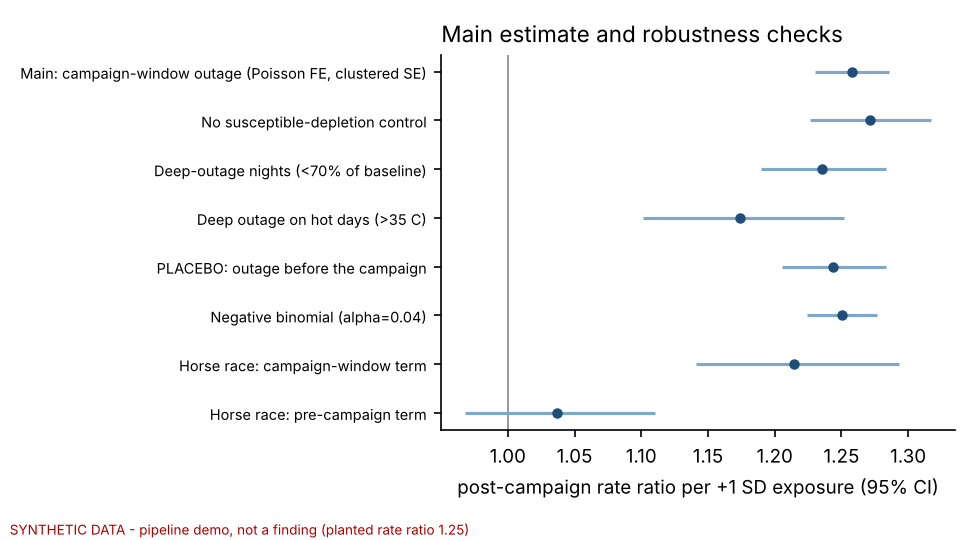
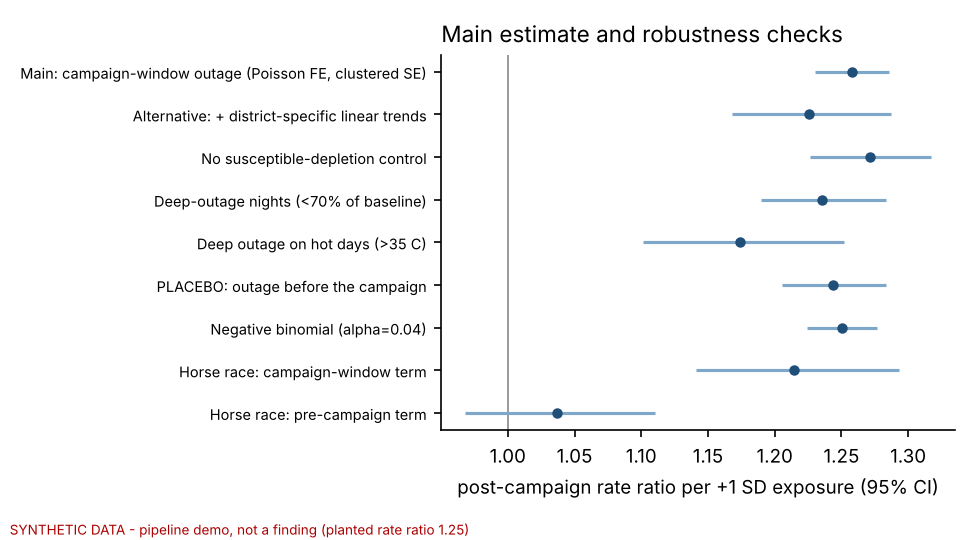
Add district-specific trends estimate and one-command runner
Alternative DiD estimate with a linear trend per district, as suggested
by Prof. Enrico Rettore, reported next to the conservative main estimate.
scripts/run_all.py runs every step and prints the numbers to report.

diff --git a/scripts/run_all.py b/scripts/run_all.py
@@ -1,0 +1,58 @@
+"""Run the whole study with one command.
+
+    python scripts/run_all.py
+
+Order:
+  1. DGHS district measles data           (download, ~30-60 min the first time)
+  2. BPDB zone load shedding              (download; skipped if the site fails)
+  3. Earth Engine night-light exports      (needs the CSVs in data/raw/gee/;
+                                           see docs/SETUP_bn.md, step 4)
+  4. Main analysis incl. district trends  (results/main/)
+  5. Zone inequality                      (results/zone_inequality/)
+  6. Historical parallel trends           (results/historical_pretrends/)
+
+Downloads already on disk are skipped, so it is safe to run again.
+At the end it prints the numbers to report.
+"""
+
+import subprocess
+import sys
+from pathlib import Path
+
+ROOT = Path(__file__).resolve().parents[1]
+PY = sys.executable
+
+
+def run(step: str, args: list[str], required: bool = True) -> bool:
+    print(f"\n=== {step} ===", flush=True)
+    code = subprocess.call([PY, *args], cwd=ROOT)
+    if code != 0:
+        msg = f"step failed: {step}"
+        if required:
+            sys.exit(msg + " - fix this before continuing (see docs/SETUP_bn.md)")
+        print(msg + " - continuing without it")
+        return False
+    return True
+
+
+run("1. DGHS district measles data", ["scripts/01_fetch_dghs.py"])
+run("2. BPDB zone load shedding", ["scripts/02_fetch_bpdb.py"], required=False)
+
+gee = sorted((ROOT / "data" / "raw" / "gee").glob("ntl_tmax_district_*.csv"))
+if not gee:
+    sys.exit("\nStep 3 is missing: no Earth Engine exports in data/raw/gee/.\n"
+             "Run gee/export_district_ntl_temperature.js in code.earthengine.google.com,\n"
+             "download the CSVs from Google Drive into data/raw/gee/, then run this again.")
+run("3. Night-light outage index", ["scripts/03_prepare_ntl.py"])
+run("4. Main analysis", ["scripts/04_run_analysis.py"])
+zp = ROOT / "data" / "processed" / "bpdb_zone_daily.csv"
+run("5. Zone inequality", ["scripts/05_zone_inequality.py"] + (["--input", str(zp)] if zp.exists() else []),
+    required=False)
+run("6. Historical parallel trends", ["scripts/06_historical_pretrends.py"], required=False)
+
+print("\n" + "=" * 70)
+for f in ["results/main/SUMMARY.md", "results/historical_pretrends/SUMMARY.md"]:
+    p = ROOT / f
+    if p.exists():
+        print(p.read_text(encoding="utf-8"))
+print("Figures: results/main/figures/ and results/historical_pretrends/")

diff --git a/scripts/04_run_analysis.py b/scripts/04_run_analysis.py
@@ -52,6 +52,7 @@ P.to_csv(out / "panel.csv", index=False)
 # ------------------------------------------------------------------ models
 rows = [
     models.did(P, label="Main: campaign-window outage (Poisson FE, clustered SE)"),
+    models.did(P, district_trends=True, label="Alternative: + district-specific linear trends"),
     models.did(P, controls=False, label="No susceptible-depletion control"),
     models.did(P, exposure="deep_outage_campaign_z", label="Deep-outage nights (<70% of baseline)"),
     models.did(P, exposure="hot_outage_campaign_z", label="Deep outage on hot days (>35 C)"),
@@ -136,6 +137,7 @@ if val is not None and len(val):
 # ------------------------------------------------------------------ summary
 main = est.iloc[0]
 plac = est[est["model"].str.startswith("PLACEBO")].iloc[0]
+tr = est[est["model"].str.startswith("Alternative: + district")].iloc[0]
 hr_c = est[est["model"] == "Horse race: campaign-window term"].iloc[0]
 hr_p = est[est["model"] == "Horse race: pre-campaign term"].iloc[0]
 lines = [
@@ -147,6 +149,8 @@ lines = [
     f"({P['week'].min():%d %b} to {P['week'].max():%d %b %Y}), {int(P['suspected'].sum()):,} suspected cases.",
     f"- Main estimate: rate ratio **{main.rate_ratio:.2f}** (95% CI {main.rr_low:.2f}-{main.rr_high:.2f}, "
     f"p = {main.p:.3f}) per +1 SD of campaign-window outage.",
+    f"- Alternative with district-specific linear trends: **{tr.rate_ratio:.2f}** "
+    f"({tr.rr_low:.2f}-{tr.rr_high:.2f}, p = {tr.p:.3f}).",
     f"- Placebo (outage before the campaign): {plac.rate_ratio:.2f} ({plac.rr_low:.2f}-{plac.rr_high:.2f}). "
     "Outages before and during the campaign are correlated (both track rurality), so the placebo alone "
     "cannot separate the stories.",

diff --git a/src/ccd/models.py b/src/ccd/models.py
@@ -43,10 +43,22 @@ def _row(res, term: str, label: str) -> dict:
 
 
 def did(panel: pd.DataFrame, exposure: str = "outage_campaign_z", outcome: str = "suspected",
-        controls: bool = True, family=None, label: str | None = None) -> dict:
+        controls: bool = True, family=None, label: str | None = None,
+        district_trends: bool = False) -> dict:
+    """DiD rate ratio. district_trends=True adds a separate linear time trend
+    for every district (suggested by Prof. E. Rettore as an alternative to the
+    conservative main estimate, given the borderline 2017-2023 pre-trend)."""
     df = panel.dropna(subset=[exposure, outcome, "log_pop_u5"]).copy()
     df["post_x_exp"] = df["post"] * df[exposure]
     rhs = "post_x_exp + C(district) + C(week)"
+    if district_trends:
+        df["t"] = (df["week"] - df["week"].min()).dt.days / 7.0
+        df["t"] = df["t"] - df["t"].mean()
+        # One trend per district except the first: the week fixed effects
+        # already absorb the common national trend.
+        for i, d in enumerate(sorted(df["district"].unique())[1:]):
+            df[f"trend_{i}"] = (df["district"] == d) * df["t"]
+            rhs += f" + trend_{i}"
     if controls:
         df["post_x_pre"] = df["post"] * df["pre_attack_z"]
         rhs += " + post_x_pre"

diff --git a/tests/test_pipeline.py b/tests/test_pipeline.py
@@ -61,3 +61,9 @@ def test_did_null_when_no_effect():
 def test_event_study_has_reference_week():
     es = models.event_study(_panel(1.2))
     assert (es["term"] == "reference").sum() == 1
+
+
+def test_district_trends_variant_recovers_effect():
+    p = _panel(1.30)
+    est = models.did(p, district_trends=True)
+    assert est["rr_low"] > 1.0 and abs(est["rate_ratio"] - 1.30) < 0.12

diff --git a/README.md b/README.md
@@ -36,7 +36,7 @@ search in November 2026 for "vaccine cold chain bangladesh" and for
 | `scripts/05_zone_inequality.py` | Who carried the load shedding, by BPDB zone | **run on real data**, see below |
 | `scripts/06_historical_pretrends.py` | Parallel-trends check on 2017-2023 district measles data | **run on real data** (zone proxy), see below |
 | `app/dashboard.py` | Streamlit dashboard | working |
-| `tests/` | 23 tests, including recovery of a planted effect | passing |
+| `tests/` | 24 tests, including recovery of a planted effect | passing |
 | `docs/pre_analysis_plan.md` | Hypotheses, design and threats, **written before seeing the outcome data** | done |
 
 ## First real result: who carried the load shedding
@@ -85,6 +85,9 @@ conservative. Details are in `results/historical_pretrends/SUMMARY.md`.
   `cases ~ district FE + week FE + post x exposure + post x pre-campaign attack rate`,
   with standard errors clustered by district. The coefficient is reported as a
   rate ratio per +1 SD of outage.
+* **Alternative estimate:** the same model with district-specific linear
+  trends, as suggested by Prof. Enrico Rettore (University of Padova) in
+  view of the borderline historical pre-trend.
 * **Checks:** an event study for pre-trends; a placebo that uses outages
   *before* the campaign; a "horse race" with both windows in one model; a
   negative binomial fit; deep-outage and hot-outage variants; BPDB zone data
@@ -102,13 +105,13 @@ SYNTHETIC).
 git clone https://github.com/<you>/cold-chain-in-the-dark && cd cold-chain-in-the-dark
 python -m venv .venv && source .venv/bin/activate      # Windows: .venv\Scripts\activate
 pip install -r requirements.txt
-pytest                                                  # 23 tests
+pytest                                                  # 24 tests
 
 python scripts/05_zone_inequality.py                    # real data, included
 python scripts/04_run_analysis.py --synthetic           # pipeline demo
 python scripts/06_historical_pretrends.py               # pre-2026 parallel trends
 
-# the real study
+# the real study (or simply: python scripts/run_all.py once the GEE CSVs are in data/raw/gee/)
 python scripts/01_fetch_dghs.py                         # ~30-60 min
 python scripts/02_fetch_bpdb.py
 #   run gee/export_district_ntl_temperature.js in code.earthengine.google.com,

diff --git a/docs/SETUP_bn.md b/docs/SETUP_bn.md
@@ -14,7 +14,7 @@ cd cold-chain-in-the-dark
 python -m venv .venv
 .venv\Scripts\activate          # Mac/Linux হলে: source .venv/bin/activate
 pip install -r requirements.txt
-pytest                          # 23টা টেস্ট pass করা উচিত
+pytest                          # 24টা টেস্ট pass করা উচিত
 ```
 
 ## ১. যা সাথে সাথে চলে (আসল ডেটা রিপোতেই আছে)
@@ -64,6 +64,16 @@ python scripts/03_prepare_ntl.py
 ```
 
 **সতর্কতা:** NASA-র Black Marble ডেটা Earth Engine-এ আসতে কয়েক সপ্তাহ দেরি হতে পারে। শেষের দিকের মাসগুলোর ফাইল খালি এলে `START`/`END` তারিখ একটু কমিয়ে আবার চালাও।
+
+## এক কমান্ডে সব চালানো
+
+স্যাটেলাইট ডেটার CSV ফাইলগুলো (ধাপ ৪) `data\raw\gee\` ফোল্ডারে রাখার পর বাকি সব কাজ একটা কমান্ডেই হয়ে যায়:
+
+```bash
+python scripts/run_all.py
+```
+
+এটা হামের ডেটা নামায়, লোডশেডিংয়ের ডেটা নামায়, মূল বিশ্লেষণ চালায় (জেলাভিত্তিক trend-সহ), আর আগের বছরগুলো দিয়ে parallel trends যাচাই করে। একদম শেষে প্রফেসরকে পাঠানোর মতো সংখ্যাগুলো দেখায়।
 
 ## ৫. মূল বিশ্লেষণ
 

diff --git a/results/synthetic_demo/SUMMARY.md b/results/synthetic_demo/SUMMARY.md
@@ -1,9 +1,10 @@
 # Results (SYNTHETIC DEMO)
 
-_Generated 2026-11-23 11:05. SYNTHETIC DATA - pipeline demo, not a finding (planted rate ratio 1.25)_
+_Generated 2026-11-27 17:06. SYNTHETIC DATA - pipeline demo, not a finding (planted rate ratio 1.25)_
 
 - Panel: 64 districts x 24 weeks (13 Apr to 21 Sep 2026), 455,764 suspected cases.
 - Main estimate: rate ratio **1.26** (95% CI 1.23-1.29, p = 0.000) per +1 SD of campaign-window outage.
+- Alternative with district-specific linear trends: **1.23** (1.17-1.29, p = 0.000).
 - Placebo (outage before the campaign): 1.24 (1.21-1.28). Outages before and during the campaign are correlated (both track rurality), so the placebo alone cannot separate the stories.
 - Horse race (both in one model): campaign-window 1.21 (1.14-1.29), pre-campaign 1.04 (0.97-1.11). The cold-chain reading needs the campaign-window term above 1 and the pre-campaign term near 1.
 

diff --git a/docs/pre_analysis_plan.md b/docs/pre_analysis_plan.md
@@ -105,3 +105,7 @@ cold-chain failure.
   plus an exposure x year event study. This was added before any 2026 district outcome data were
   downloaded. The first run used the BPDB zone burden ratio as a proxy exposure; the final run will
   use the campaign-window night-light exposure.
+* **27 November 2026: added an alternative estimate with district-specific linear trends**
+  (`models.did(..., district_trends=True)`), on Prof. Rettore's advice: report the conservative main
+  estimate and, as an alternative, one that allows each district its own linear trend. Added before
+  any 2026 district outcome data were downloaded.
